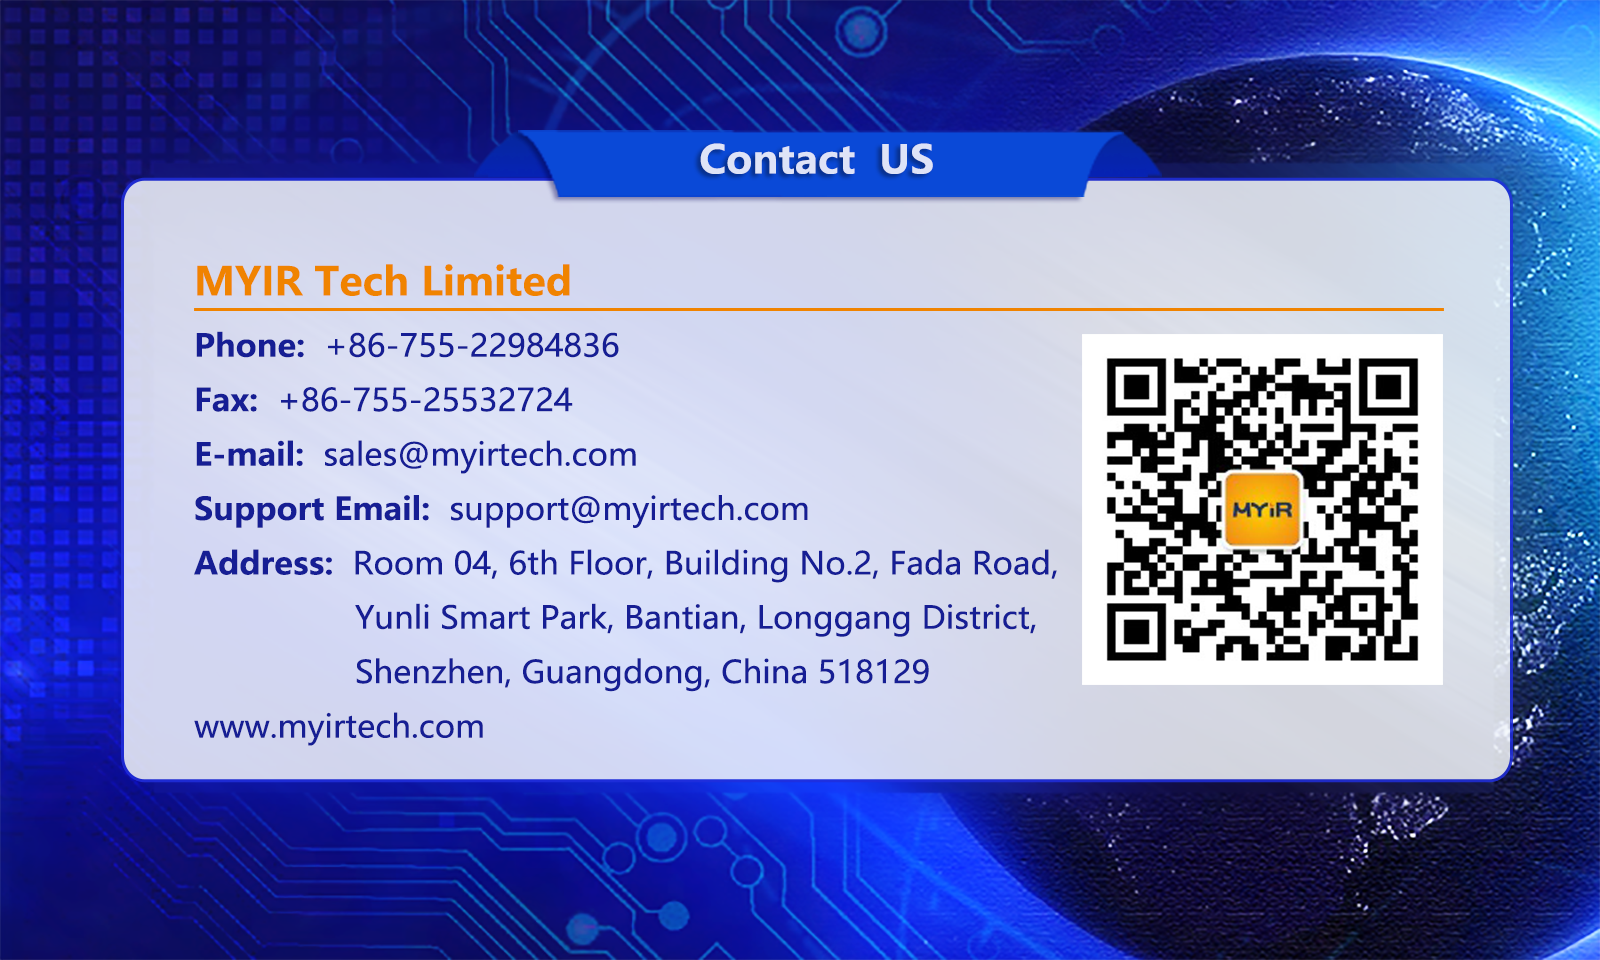
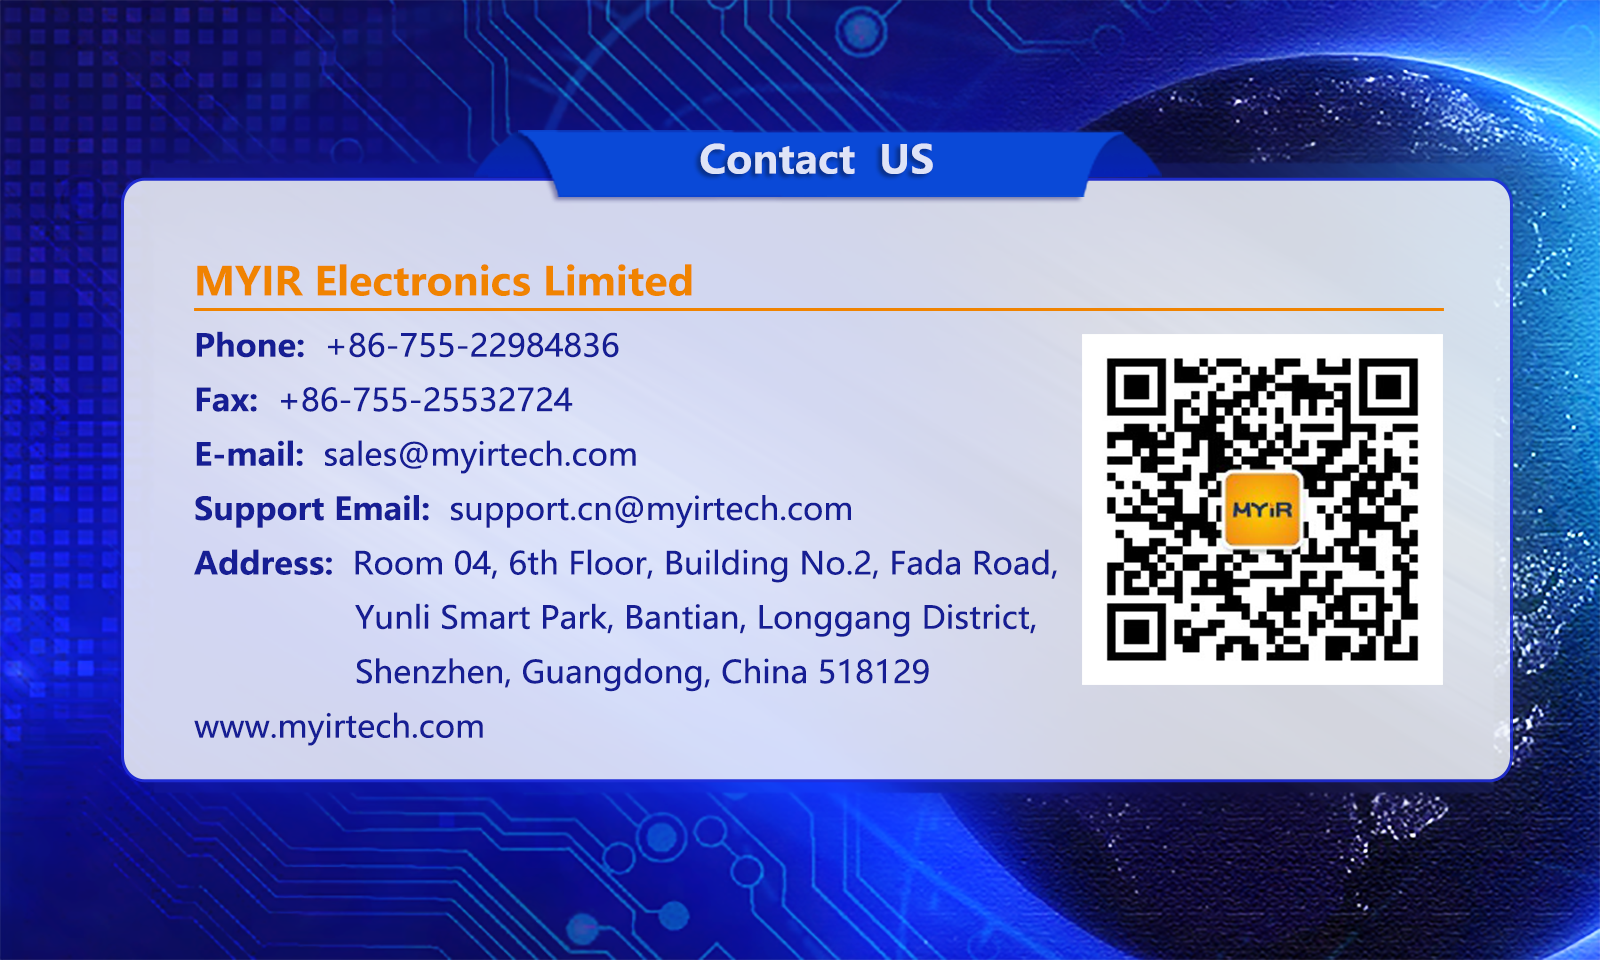
1.slove nand size show bug 2.reanme company name

Changed region(s): [[0.3438, 0.5, 0.5312, 0.5625], [0.1875, 0.2812, 0.4375, 0.3125]]

diff --git a/mxtaskmanager/miscinfo.cpp b/mxtaskmanager/miscinfo.cpp
@@ -202,7 +202,9 @@ void Miscinfo::ReadData()
             memoryPercent = 100 * memoryUse / memoryAll;
             break;
         }else if(s.startsWith("/dev/root")){
-            CheckSize(s, "本地存储");
+            CheckSize(s, "emmc");
+        }else if(s.startsWith("ubi0:rootfs")){
+            CheckSize(s, "nand");
         }else if(s.startsWith("/dev/mmcblk1p1")){
             CheckSize(s, "SD卡");
         }else if(s.startsWith("/dev/sda1")){
